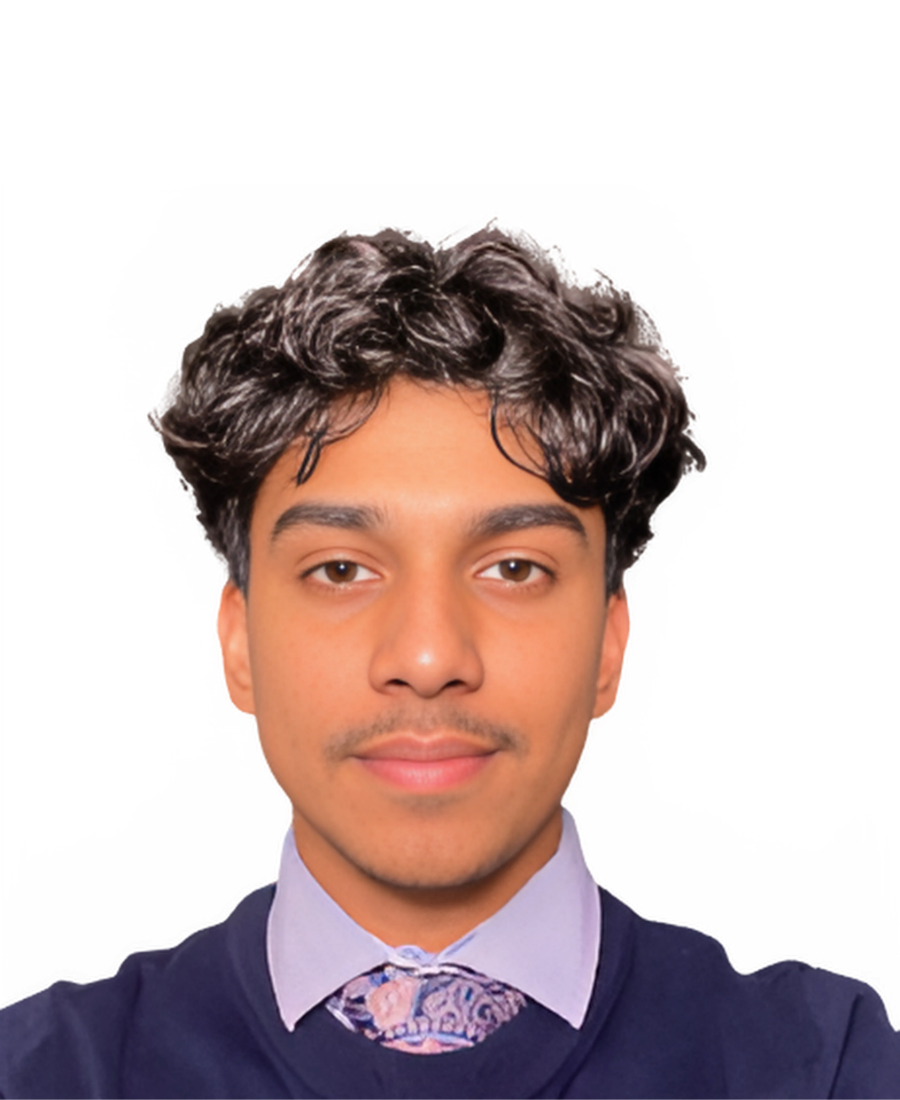
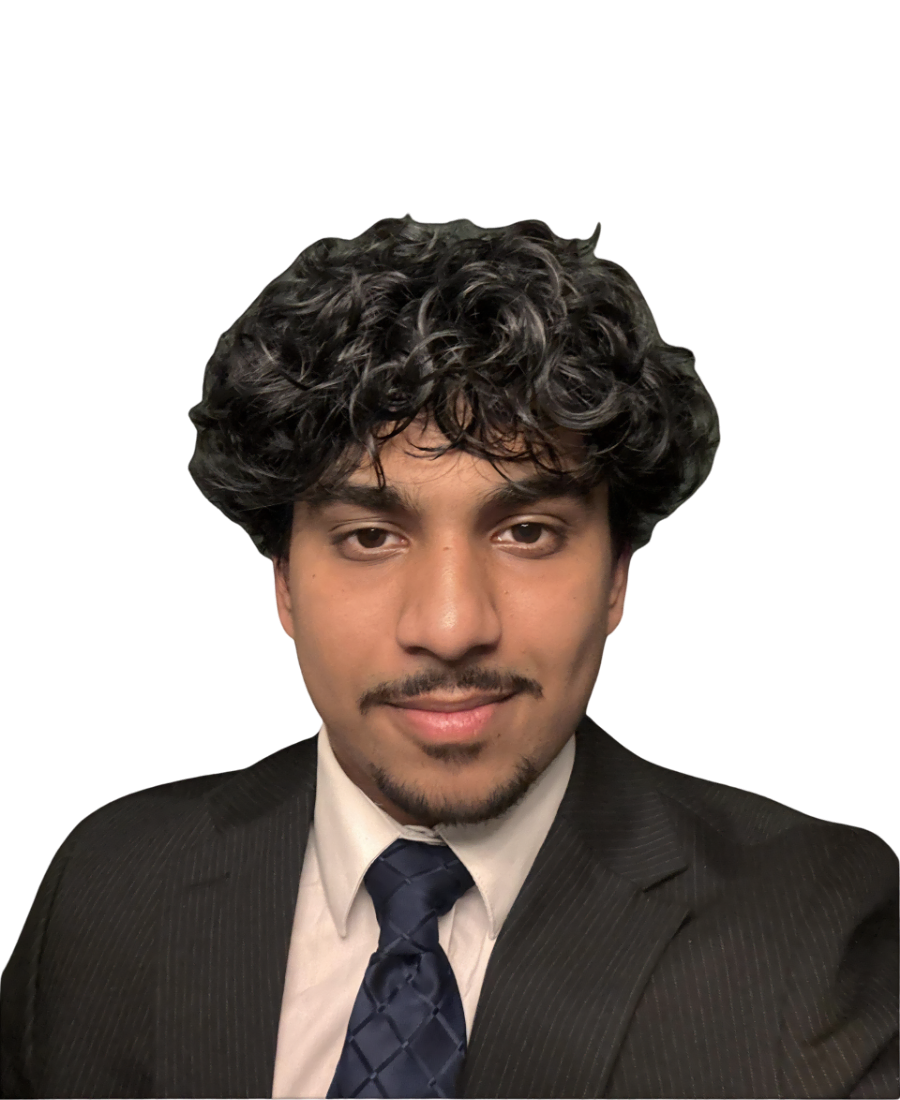
chore: update Kiran image and add brand reference

diff --git a/docs/Jothi_2026_Website_Brand_Audit_For_Canva.md b/docs/Jothi_2026_Website_Brand_Audit_For_Canva.md
@@ -1,0 +1,338 @@
+# Jothi 2026 Website Brand Audit For Canva
+
+## 1. Files reviewed
+
+Core site and documentation reviewed:
+
+- `package.json`
+- `README.md`
+- `SOURCE_OF_TRUTH.md`
+- `CURRENT_STATE.md`
+- `styles.css`
+- `index.html`
+- `programmes.html`
+- `site.webmanifest`
+- `docs/Jothi_Design_Eye_Brief_Short.md`
+- `docs/parent-advice-editorial-rules.md`
+
+Parent Advice templates and generated pages reviewed for visual system only:
+
+- `templates/parent-advice-index.html`
+- `templates/parent-advice-category.html`
+- `templates/parent-advice-article.html`
+- `parent-advice/index.html`
+- `parent-advice/gcse/what-should-year-10-students-do-over-summer/index.html`
+
+Asset areas reviewed for current brand/logo identification:
+
+- `Logo 2026.png`
+- `favicon.ico`
+- `assets/favicon/`
+- `assets/fonts/`
+- `assets/img/home/hero/`
+- `assets/img/home/proof/`
+- `assets/img/social/`
+- `assets/img/team/`
+- `assets/img/testimonials/`
+- `assets/img/ukmt/`
+
+No build, deploy, Git, image generation, or source edits were run.
+
+## 2. Current typography
+
+The current website typography is based on local font files, not remote Google Fonts.
+
+Primary body font:
+
+- Lato
+- CSS variable: `--font-body-current: "Lato", "Helvetica Neue", sans-serif;`
+- Local files:
+  - `assets/fonts/lato/lato-400.woff2`
+  - `assets/fonts/lato/lato-600.woff2`
+  - `assets/fonts/lato/lato-700.woff2`
+
+Primary heading / serif display font:
+
+- Playfair Display
+- CSS variable: `--font-serif-current: var(--font-serif-playfair);`
+- Local files:
+  - `assets/fonts/playfair-display/playfair-display-600.woff2`
+  - `assets/fonts/playfair-display/playfair-display-700.woff2`
+
+Fallbacks:
+
+- Serif fallback: `Georgia, Cambria, "Times New Roman", serif`
+- Sans fallback: `"Helvetica Neue", sans-serif`
+
+Inter usage:
+
+- No current active website source reviewed uses Inter as the brand font.
+- Inter should not be used as the main Canva Brand Kit font if the goal is to match the 2026 website.
+
+Typography feel:
+
+- Playfair Display carries the premium, editorial, parent-facing tone.
+- Lato carries the calm, practical, readable teaching/business tone.
+- The site avoids a tech-startup sans-only look.
+
+## 3. Current colour palette
+
+The main colour system is defined in `styles.css` as CSS variables.
+
+Core colours:
+
+| Role | Hex | Source / usage |
+|---|---:|---|
+| Deep navy | `#0b1730` | `--navy-950`; deepest brand navy, shadows, dark contrast |
+| Core navy | `#10233f` | `--navy-900`; primary buttons, header text, theme colour |
+| Mid navy | `#183153` | `--navy-800`; hover states and dark secondary use |
+| Softer navy | `#28466d` | `--navy-700`; secondary navy use |
+| Ivory | `#fbf8f1` | `--ivory-50`; warm page background |
+| Warm cream | `#f5efe3` | `--ivory-100`; section/card background |
+| Cream line | `#e7dcc7` | `--ivory-200`; warm borders and subtle separation |
+| Muted gold | `#c2a35f` | `--gold-400`; accent lines, highlights, small details |
+| Deep gold | `#a88743` | `--gold-500`; text accents, kickers, labels |
+| Muted slate | `#66748a` | `--slate-500`; secondary body/meta text |
+| Dark slate | `#314158` | `--slate-700`; body text and supporting headings |
+| White | `#ffffff` | Cards, surfaces, text on dark backgrounds |
+
+Backgrounds:
+
+- The global page background is warm ivory/cream, with a subtle gold radial glow and a soft vertical ivory gradient.
+- The homepage hero uses a real image with a warm ivory overlay rather than a flat colour or graphic illustration.
+
+Buttons:
+
+- Primary button: core navy `#10233f` background, white text, hover to `#183153`.
+- Secondary button: translucent white/cream background, navy text, subtle navy border.
+- WhatsApp button: `#25d366`, hover `#1ebe5d`.
+
+Important colour rule:
+
+- WhatsApp green is reserved for WhatsApp-specific UI. It should not be used as a general Jothi brand accent.
+
+Links:
+
+- Links generally inherit surrounding text colour and are styled contextually rather than using a separate bright link blue.
+
+Alerts/highlights:
+
+- The current system uses muted gold, soft ivory panels, and navy contrast for emphasis.
+- No separate loud red/orange alert system is part of the current brand language.
+
+## 4. Current logo/assets
+
+Likely primary logo:
+
+- `Logo 2026.png`
+- Format: PNG
+- Dimensions found: 400 x 490 px
+- Used in the site header as the primary logo image.
+
+Header brand lockup:
+
+- Logo image plus text:
+  - `JOTHI`
+  - `LEARNING`
+  - `Serious teaching. Visible progress.`
+
+Favicons / app icons:
+
+- `favicon.ico`
+- `assets/favicon/favicon-16x16.png`
+- `assets/favicon/favicon-32x32.png`
+- `assets/favicon/apple-touch-icon.png`
+
+Social/reference image:
+
+- `assets/img/social/jothi-og-home.png`
+
+Current visual asset families:
+
+- Homepage hero/proof assets under `assets/img/home/hero/`
+- Proof screenshots under `assets/img/home/proof/`
+- Tutor photos under `assets/img/team/`
+- Testimonial images under `assets/img/testimonials/`
+- UKMT imagery under `assets/img/ukmt/`
+
+Assets to treat cautiously:
+
+- `assets/img/home/proof/archive/` appears archival and should not drive the Canva Brand Kit.
+- `_archive/`, `_qa-*`, old preview/variant files, and patch/WIP files should not be treated as the current visual source of truth.
+
+## 5. Reusable website visual patterns
+
+Overall feel:
+
+- Warm, calm, premium, parent-facing.
+- Private-school prospectus rather than tech SaaS dashboard.
+- Editorial restraint, generous spacing, and clear hierarchy.
+
+Layout:
+
+- Main wrapper width around 1180px.
+- Sections use calm vertical spacing and constrained content width.
+- Content is usually organised as unframed page sections with cards only where they represent actual items or panels.
+
+Cards and panels:
+
+- Soft white/translucent surfaces.
+- Subtle navy borders using low-opacity navy.
+- Large radius values in the website system: commonly 20px, 28px, or 30px.
+- Shadows are soft and low-contrast, not heavy.
+
+Buttons:
+
+- Pill-shaped buttons with strong navy primary styling.
+- Minimum height around 50px, larger in hero contexts.
+- Slight hover lift.
+- Button text is Lato Semibold/Bold, not decorative.
+
+Hero style:
+
+- The homepage hero uses real tutoring/student-work imagery with warm overlay treatment.
+- The site avoids abstract startup-style vector hero graphics.
+- Hero typography combines Playfair Display headlines with Lato supporting text.
+
+Parent Advice visual tone:
+
+- Calm, practical, editorial, text-led.
+- Uses category cards, ivory backgrounds, navy text, and gold accents.
+- Visuals for Parent Advice should feel like premium educational guidance, not generic SEO blog thumbnails.
+
+Programme/pricing visual tone:
+
+- Decision-flow structure: stage, pathway, monthly fee, joining route.
+- Cards use restrained borders, gold highlights, and clear scannable hierarchy.
+
+Gradients:
+
+- Gradients are subtle and warm: ivory, cream, navy, and soft gold.
+- Avoid bright, multi-colour, purple/blue SaaS gradients.
+
+## 6. Recommended Canva Brand Kit: Jothi Learning 2026
+
+Brand Kit name:
+
+- Jothi Learning 2026
+
+Primary Canva fonts:
+
+- Heading font: Playfair Display SemiBold / Bold
+- Body font: Lato Regular / Semibold / Bold
+
+Fallback guidance:
+
+- If exact weights are unavailable in Canva, use the nearest Playfair Display heading weight and Lato body weight.
+- Do not substitute Inter, Montserrat, Poppins, or other generic startup fonts as the primary look.
+
+Recommended Canva colours:
+
+| Canva swatch name | Hex | Usage |
+|---|---:|---|
+| Jothi Deep Navy | `#0b1730` | Dark backgrounds, highest contrast headings, footer-style panels |
+| Jothi Core Navy | `#10233f` | Primary buttons, main headline colour, brand blocks |
+| Jothi Mid Navy | `#183153` | Hover-style depth, secondary dark panels, supporting contrast |
+| Jothi Muted Gold | `#c2a35f` | Accent rules, dividers, small highlights, premium detail |
+| Jothi Deep Gold | `#a88743` | Kicker text, labels, small emphasis |
+| Jothi Ivory | `#fbf8f1` | Main warm background |
+| Jothi Warm Cream | `#f5efe3` | Cards, panels, soft content bands |
+| Jothi Dark Slate | `#314158` | Body text and supporting copy |
+
+Optional secondary text swatch:
+
+- Jothi Muted Slate `#66748a` for captions, metadata, and low-priority text.
+
+Logo files to upload to Canva:
+
+- Primary logo: `Logo 2026.png`
+- Square/avatar support: `assets/favicon/apple-touch-icon.png`
+- Reference only, not as a logo: `assets/img/social/jothi-og-home.png`
+
+## 7. Thumbnail design rules
+
+Recommended thumbnail system:
+
+- Use ivory or warm cream backgrounds as the default.
+- Use core navy or deep navy for the main headline.
+- Use muted gold only as a small accent: rule line, corner detail, category pill, or underline.
+- Use Playfair Display for short emotional/editorial headlines.
+- Use Lato for subtitles, dates, webinar details, speaker names, and calls to action.
+- Keep the primary logo small and consistent, usually top-left or bottom-right.
+- Leave generous negative space.
+- Prefer real tutor, student-work, proof, or event imagery where approved and relevant.
+- Use soft borders and restrained shadows if a card treatment is needed.
+
+Recommended formats:
+
+- 1:1 for general social thumbnails.
+- 4:5 for Instagram feed versions.
+- 9:16 for stories/reels/caption-led clips.
+- 16:9 for YouTube/webinar preview or website embeds.
+
+Avoid:
+
+- Long paragraphs on thumbnails.
+- Bright blue link styling.
+- Neon greens, oranges, purple gradients, and high-saturation backgrounds.
+- Generic AI classroom imagery.
+- Clip-art, cartoon students, or stock images that look unrelated to Jothi teaching.
+
+## 8. Clip/caption visual rules
+
+Webinar and short-clip overlays:
+
+- Use navy or ivory lower thirds with a thin muted-gold accent line.
+- Speaker name and role should be in Lato Semibold/Bold.
+- Key insight or quote can use Playfair Display if short.
+- Keep subtitles readable with high contrast: navy text on ivory/white or white text on navy.
+- Use warm cream translucent panels sparingly for captions over video.
+- Keep the Jothi logo present but not dominant.
+
+Parent Advice clips:
+
+- Use editorial headline cards: Playfair headline, Lato supporting line, small category label.
+- Use one core idea per frame.
+- Keep the visual tone calm and helpful, not urgent or alarmist.
+
+WhatsApp-specific visuals:
+
+- WhatsApp green may be used only for WhatsApp route cues or button-like UI.
+- Do not make WhatsApp green part of general Jothi thumbnails.
+
+## 9. Conflicts or uncertainties
+
+Multiple style locations:
+
+- `styles.css` is the main shared design system.
+- `index.html` also contains substantial homepage-specific inline CSS for the current hero/proof presentation.
+- Some subpages include page-specific inline styling while still using the shared CSS.
+
+Generated Parent Advice pages:
+
+- Parent Advice generated HTML exists under `parent-advice/`.
+- The source of truth for Parent Advice article content is Markdown under `content/parent-advice/`, with templates under `templates/`.
+- Generated pages should not be manually edited.
+
+Archive and variant material:
+
+- `_archive/`, `_qa-*`, proof archives, variant HTML files, and WIP patch files exist and may contain older or experimental visual decisions.
+- These should not be treated as active brand direction unless separately confirmed.
+
+Logo certainty:
+
+- `Logo 2026.png` is the clear active header logo in the reviewed source.
+- Favicon files are active support assets, not replacement brand marks.
+
+Brand direction risk:
+
+- The current site already has a defined premium navy/ivory/gold identity.
+- A Canva kit using Inter, bright gradients, generic startup graphics, or loud social-media colours would drift away from the current 2026 site.
+
+## 10. Files changed
+
+Created this approved report only:
+
+- `docs/Jothi_2026_Website_Brand_Audit_For_Canva.md`
+
+No website source files, CSS files, templates, article files, image files, build outputs, Git files, or deployment files were changed.
